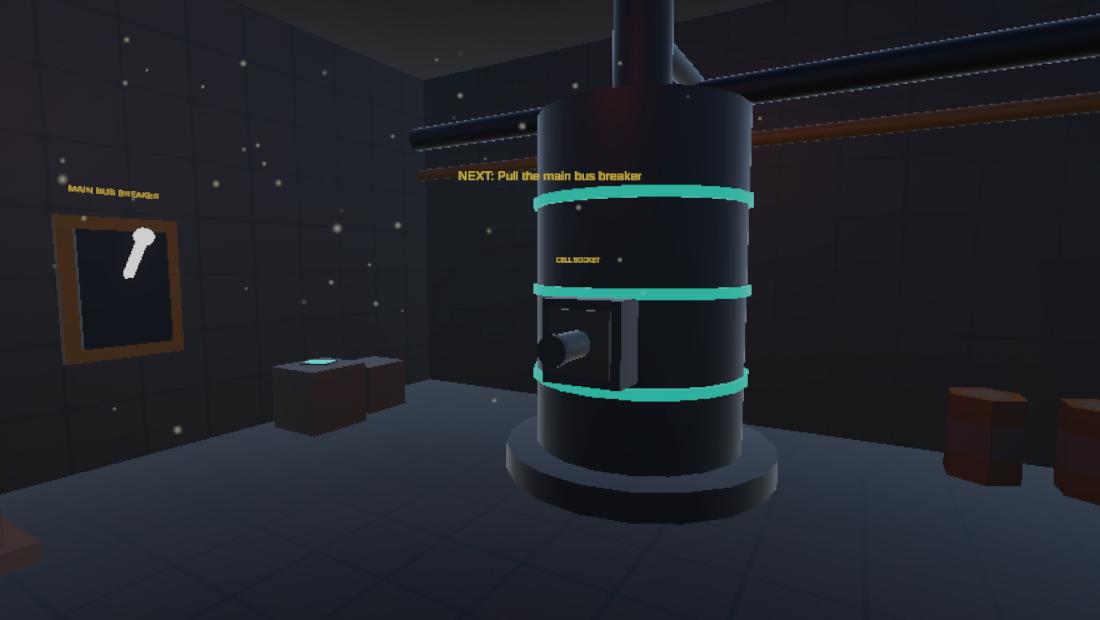
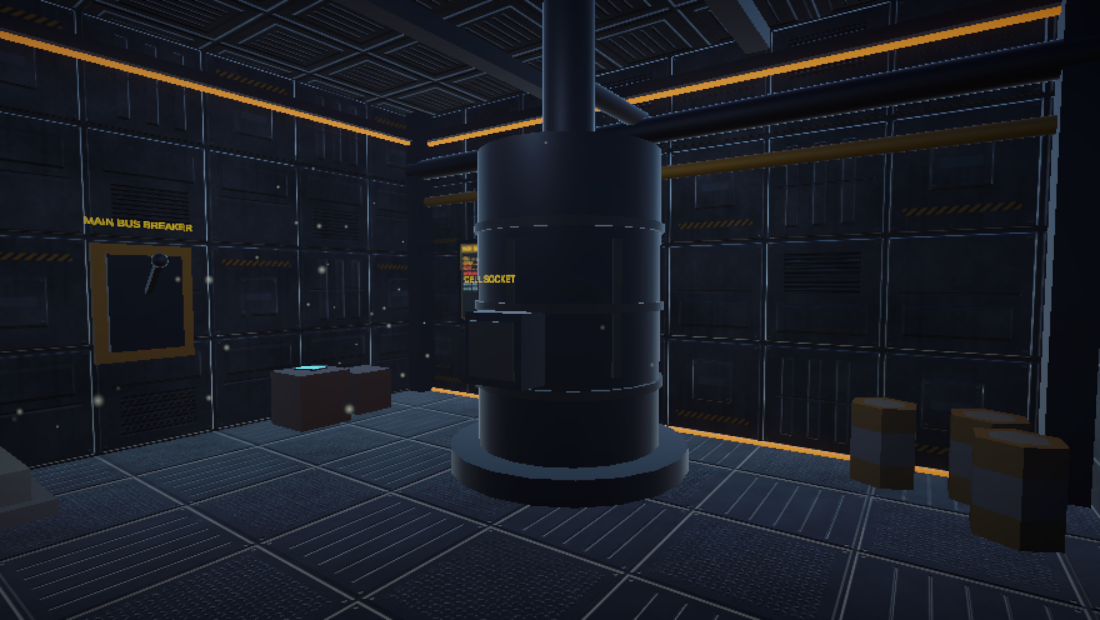
Day 181 v2: visual pass write-up and new screenshots

diff --git a/_projects/day-181.md b/_projects/day-181.md
@@ -251,14 +251,16 @@ For the final I went back to Day 181 instead of starting something new. The vers
 | Optional things to find | none | 5 crew logs, one from each crew member |
 | Endings | 1 | 3 |
 | Lighting | one fixed look | 4 states: emergency power, full power, blackout, lab only |
+| Surfaces | one flat 256 px grid texture on everything | 1024 px wall, floor and ceiling panels with depth, plus trim, beams and a coloured light strip in every room |
 | Story beats that need a click | all of them | dialogue still clicks; PA, radio voices, whispers and hints are captions that fade on their own |
 
 <div class="gallery rv">
-  <img src="{{ site.baseurl }}/assets/images/v2_docking_bay.png" alt="Docking Bay in v2 on emergency power, with a blue glowing crew log on the barrels and the objective line above the airlock" loading="lazy">
-  <img src="{{ site.baseurl }}/assets/images/v2_engineering.png" alt="Engineering, the new reactor room, after the power cell is seated: teal bands lit on the reactor and the main bus breaker glowing on the wall" loading="lazy">
+  <img src="{{ site.baseurl }}/assets/images/v2_docking_bay.png" alt="Docking Bay in v2: paneled walls, ceiling beams and an amber light strip around the room, with a blue glowing crew log on the barrels" loading="lazy">
+  <img src="{{ site.baseurl }}/assets/images/v2_control.png" alt="Control Room in v2 with a cyan light strip, a wall display reading Station Status Day 181, and the hazard-framed Engineering hatch" loading="lazy">
+  <img src="{{ site.baseurl }}/assets/images/v2_engineering.png" alt="Engineering, the new reactor room, lit orange, with the reactor, cell socket and main bus breaker" loading="lazy">
   <img src="{{ site.baseurl }}/assets/images/v2_quarters.png" alt="Crew Quarters, the second new room: two bunk beds either side of the crew-band relay and its tuning dial" loading="lazy">
-  <img src="{{ site.baseurl }}/assets/images/v2_blackout.png" alt="The lab door during the blackout, lit only by the player's suit lamp" loading="lazy">
-  <img src="{{ site.baseurl }}/assets/images/v2_lab.png" alt="The lab in v2, with the artifact rebuilt as a dark crystal inside two slowly turning rings" loading="lazy">
+  <img src="{{ site.baseurl }}/assets/images/v2_blackout.png" alt="The corridor during the blackout, lit only by the player's suit lamp, looking through the control room toward the lab" loading="lazy">
+  <img src="{{ site.baseurl }}/assets/images/v2_lab.png" alt="The lab in v2 with a violet light strip, an artifact telemetry display, and the artifact rebuilt as a dark crystal inside two turning rings" loading="lazy">
   <img src="{{ site.baseurl }}/assets/images/v2_ending.png" alt="One of the three end screens, titled Day 181, showing crew logs recovered 3 of 5" loading="lazy">
 </div>
 
@@ -321,6 +323,17 @@ I kept the rule from Assignment 3: no monsters, no crew silhouettes.
 
 Nothing moves the camera or takes control away, and every loud moment has a quiet lead-in.
 
+### Making It Look Like a Station
+
+My first pass at v2 was all mechanics and story, and when I opened the scene it still looked like v1: gray boxes with one small grid texture stretched over everything. So the second pass was only about looks.
+
+- **New surfaces.** Every wall, floor and ceiling now uses a panel texture I generated at four times the resolution, with vents, access hatches, rivets and hazard stripes, and a normal map so the panels catch the light like they have depth.
+- **Trim.** Each room has ceiling beams, corner posts, and a recessed light strip running around the top of the walls and along the floor.
+- **A colour per room.** Amber in the docking bay, cyan in the corridor and control room, warm white in crew quarters, orange in Engineering, violet in the lab. You can tell where you are from the light alone.
+- **Wall displays** in the control room, Engineering and the lab, with readouts that are part of the story ("REPLY DELAY: -0.4s").
+- **The strips are wired to the power.** They are dim on emergency power, come up with the breaker, and die in the blackout with everything else.
+- **A colour grade** for more contrast and a colder cast.
+
 ### Easier to Play
 
 - **Stuck hints.** If a step takes longer than about fifty seconds, ECHO says where to go and what gesture to use.
@@ -341,7 +354,7 @@ Nothing moves the camera or takes control away, and every loud moment has a quie
 ### Still To Do
 
 - Build v2 to the Quest and test every new interaction with real controllers.
-- Check frame rate with the fog, the extra lights and the suit lamp.
+- Check frame rate with the fog, the extra lights, the suit lamp and the new textures and trim. If it drops frames on the headset, the trim is the first thing to cut.
 - Record the v2 walkthrough and replace the video at the top of this page.
 
 ### v2 Assets and Credits
@@ -350,6 +363,7 @@ Nothing moves the camera or takes control away, and every loud moment has a quie
 |---|---|
 | Unity primitives, placed by an editor script (`V2Builder.cs`) | Crew Quarters, Engineering, reactor, breaker, relay, datapads, containment seal |
 | Meshes generated by the same script | The artifact crystal and its rings |
+| Textures generated for this project (Python, NumPy and Pillow) | Wall, floor and ceiling panel sets, hazard stripes, the three wall displays |
 | [Kenney "Space Kit"](https://kenney.nl/assets/space-kit) and ["Furniture Kit"](https://kenney.nl/assets/furniture-kit) (CC0) | Barrels, machine, bunks, desk and shelf in the new rooms, reused from v1 so the look stays consistent |
 | Sound effects synthesized for this project (Python and NumPy) | Lever, power surge and power down, reactor hum, hatch, metal clang, door creak, radio static, lock release |
 | macOS text-to-speech ("Samantha", "Whisper"), filtered | Station PA, voices on the radio, whispers |
